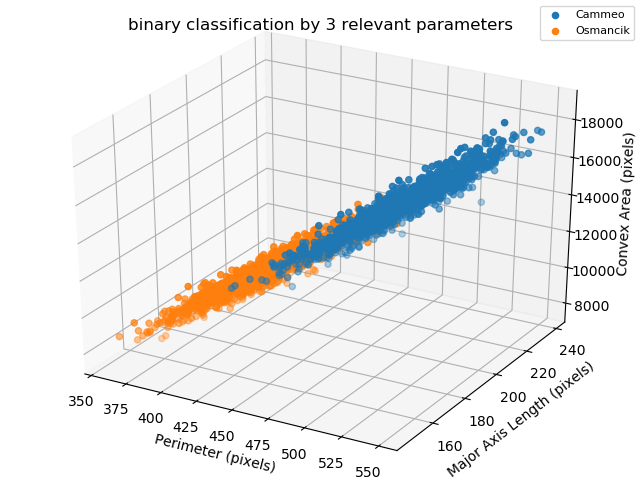
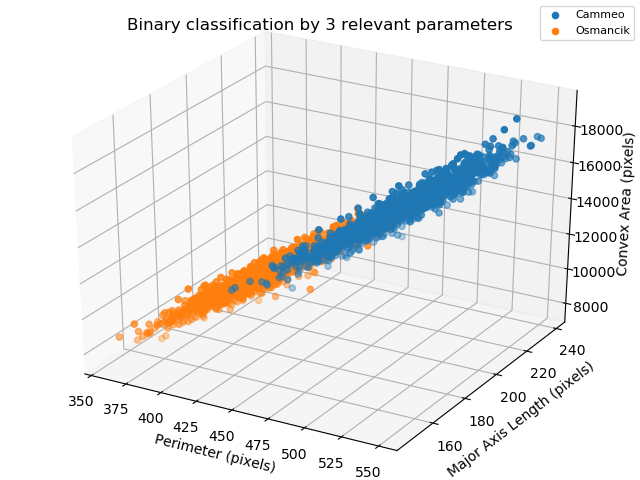
new pic - q3

diff --git a/utils.py b/utils.py
@@ -57,5 +57,5 @@ def plot_data(x, y):
     ax.set_ylabel("Major Axis Length (pixels)")
     ax.set_zlabel("Convex Area (pixels)")
     ax.legend(fontsize=8, ncol=1)
-    plt.title("binary classification by 3 relevant parameters")
+    plt.title("Binary classification by 3 relevant parameters")
     plt.show()

diff --git a/main.py b/main.py
@@ -24,10 +24,10 @@ raw_data = pd.DataFrame(data[0]).to_numpy()  # load data and convert to numpy ar
 
 data_x, data_y = split_x_y(raw_data)  # split features and labels
 
-'''
+
 # q3
 q3(data_x, data_y, TEST_SET_SIZE)
-'''
+
 
 scaler = StandardScaler()
 scaler.fit(data_x)
